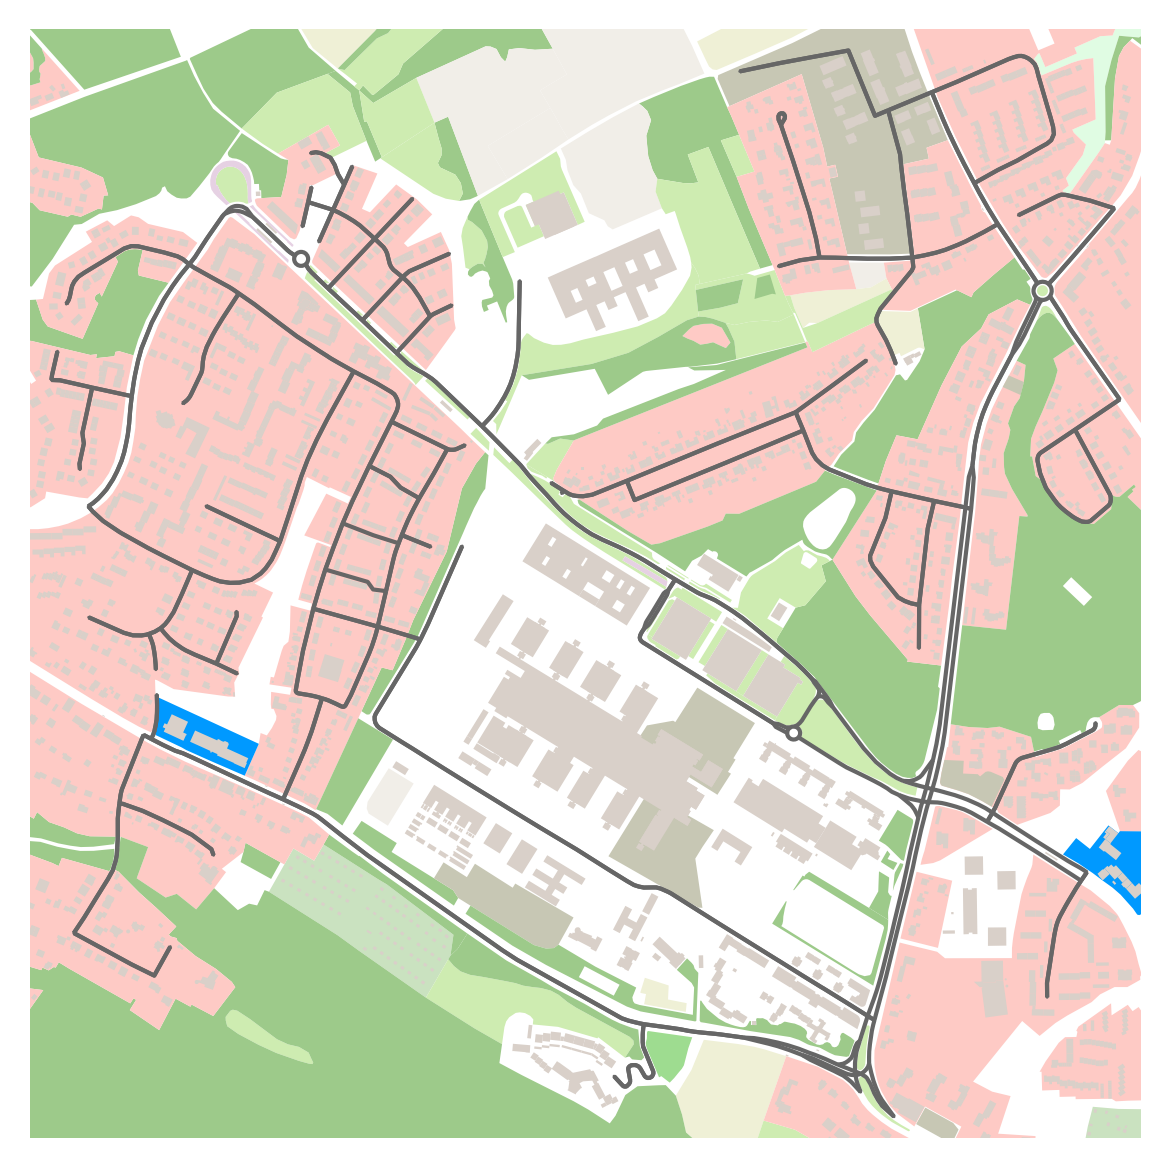
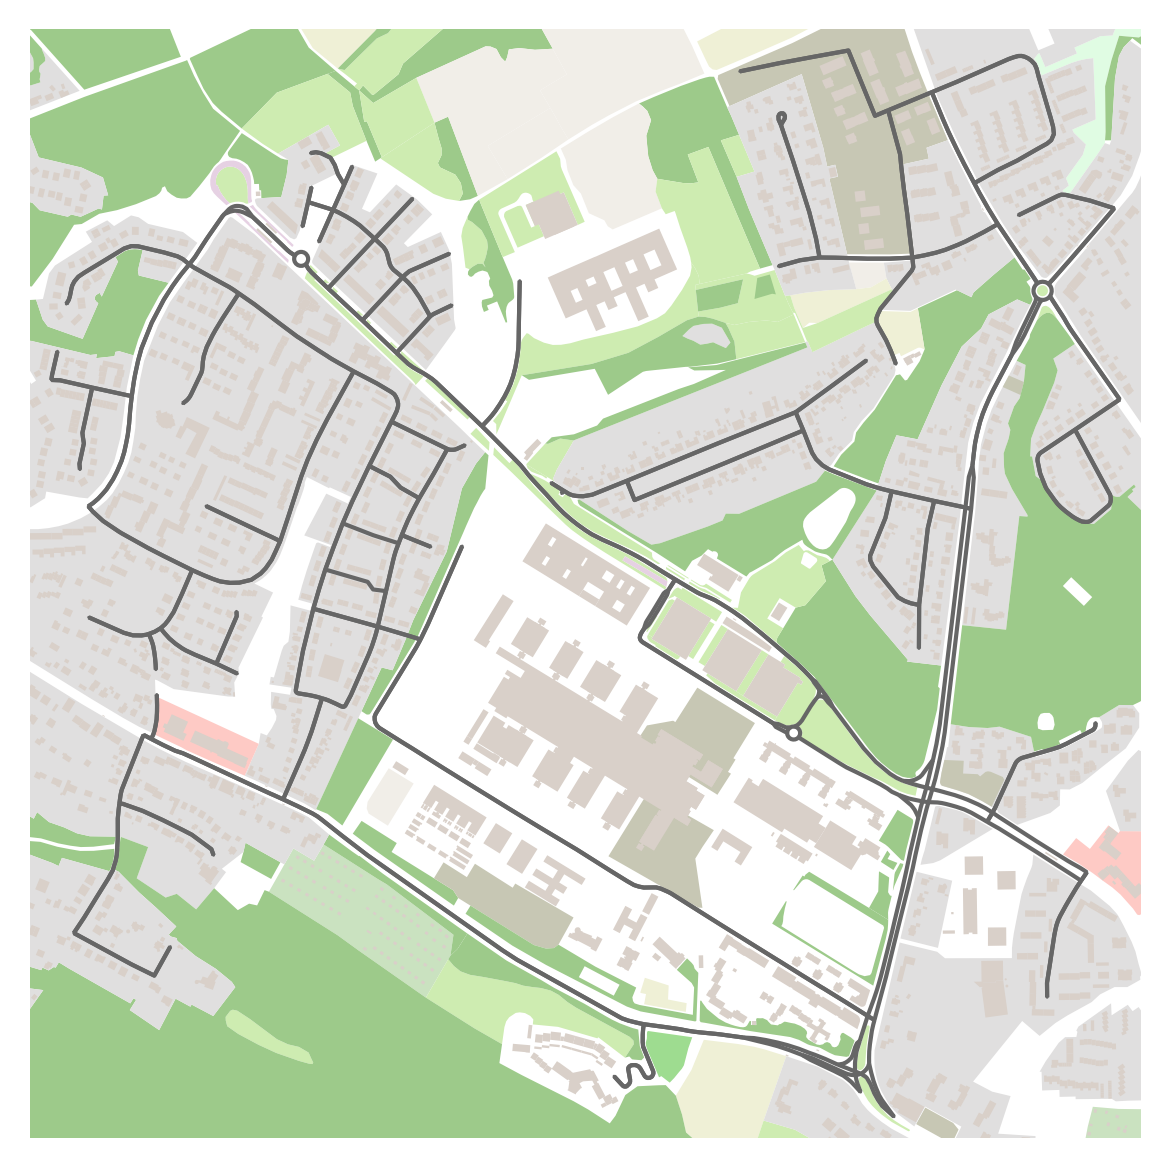
fix: repair broken colormap for retail and residential spaces

diff --git a/scripts/osmnx_mvp.py b/scripts/osmnx_mvp.py
@@ -15,10 +15,6 @@ landuse_tags = {"landuse": True}
 buildings_tags = {"building": True}
 
 # load data from OSM
-# Roughly comparable Overpass API query:
-#   nwr(around:1000,52.039320,8.493118)[landuse];
-#   (._;>;);
-#   out;
 landuse_data = ox.features.features_from_bbox(
     *bielefeld_campus,
     tags=landuse_tags,
@@ -31,6 +27,11 @@ road_data = ox.graph_from_bbox(
     *bielefeld_campus,
     network_type="drive",
 )
+# add missing data
+# https://wiki.openstreetmap.org/wiki/Key:amenity
+# https://wiki.openstreetmap.org/wiki/Key:leisure
+# https://wiki.openstreetmap.org/wiki/Key:waterway --> as a graph like highways?
+# https://wiki.openstreetmap.org/wiki/Key:natural
 
 # prepare colors
 with Path("data/osm_color_map.json").open(encoding="utf8") as color_map_file:
